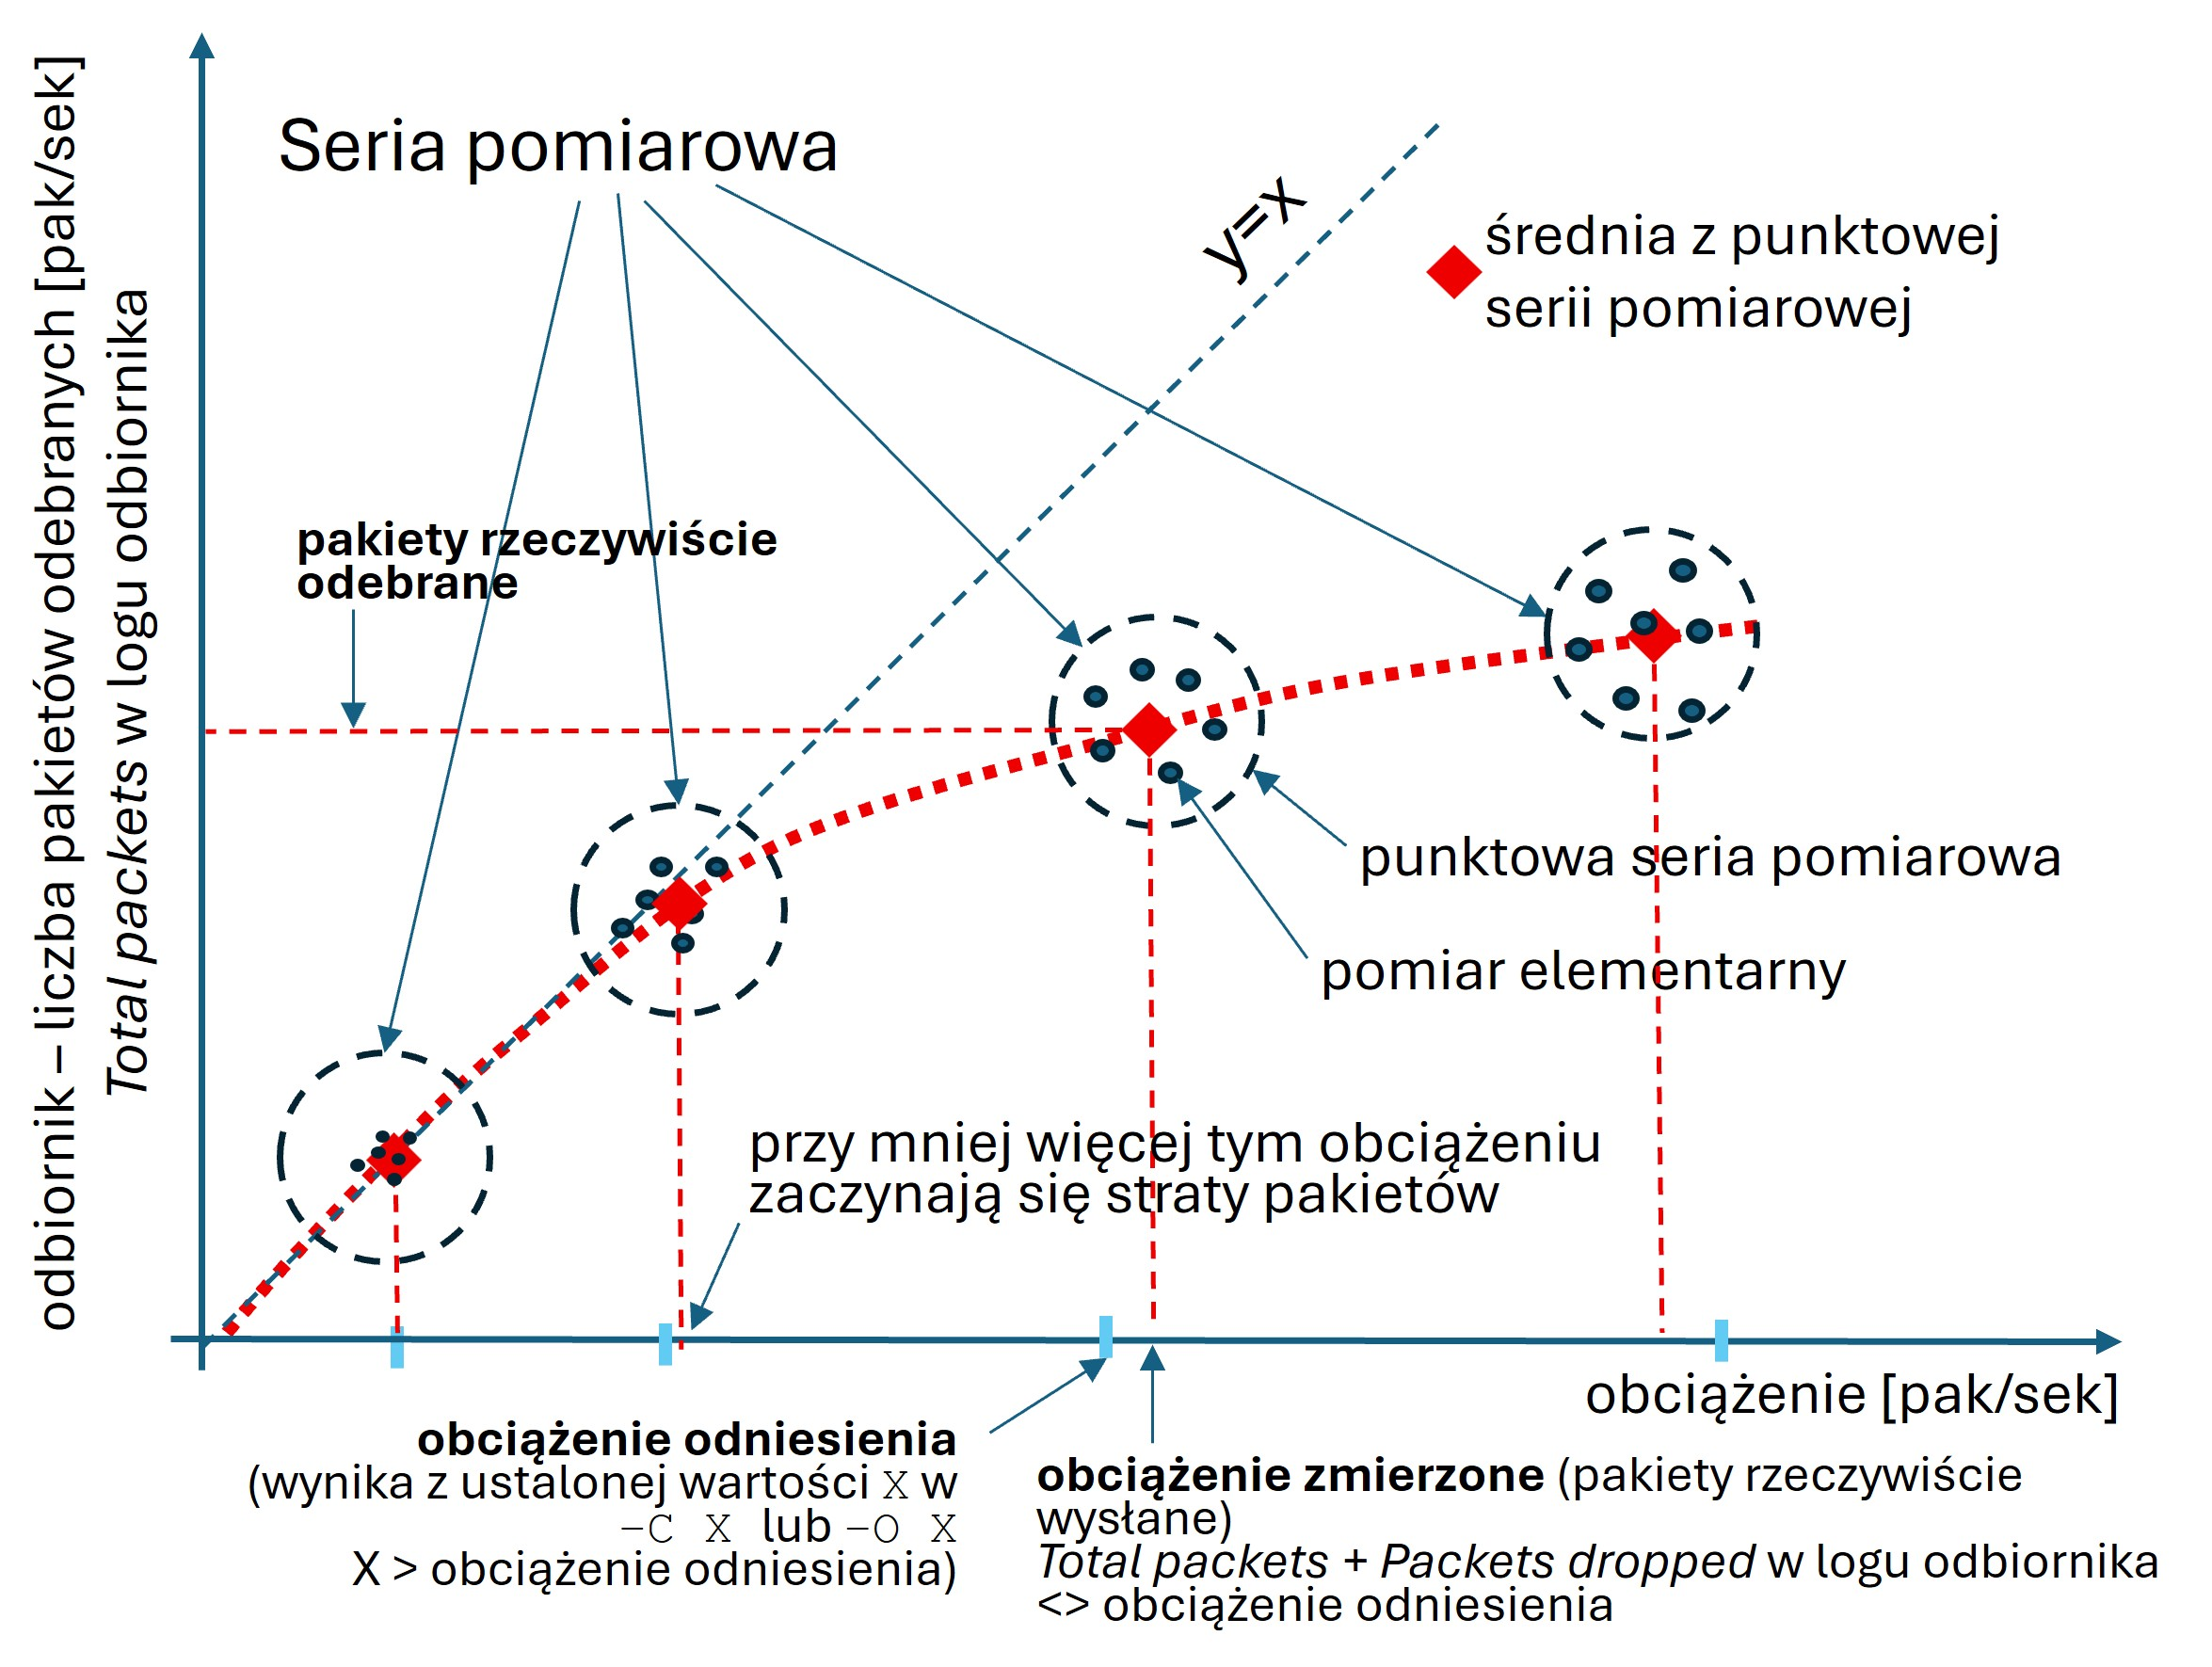
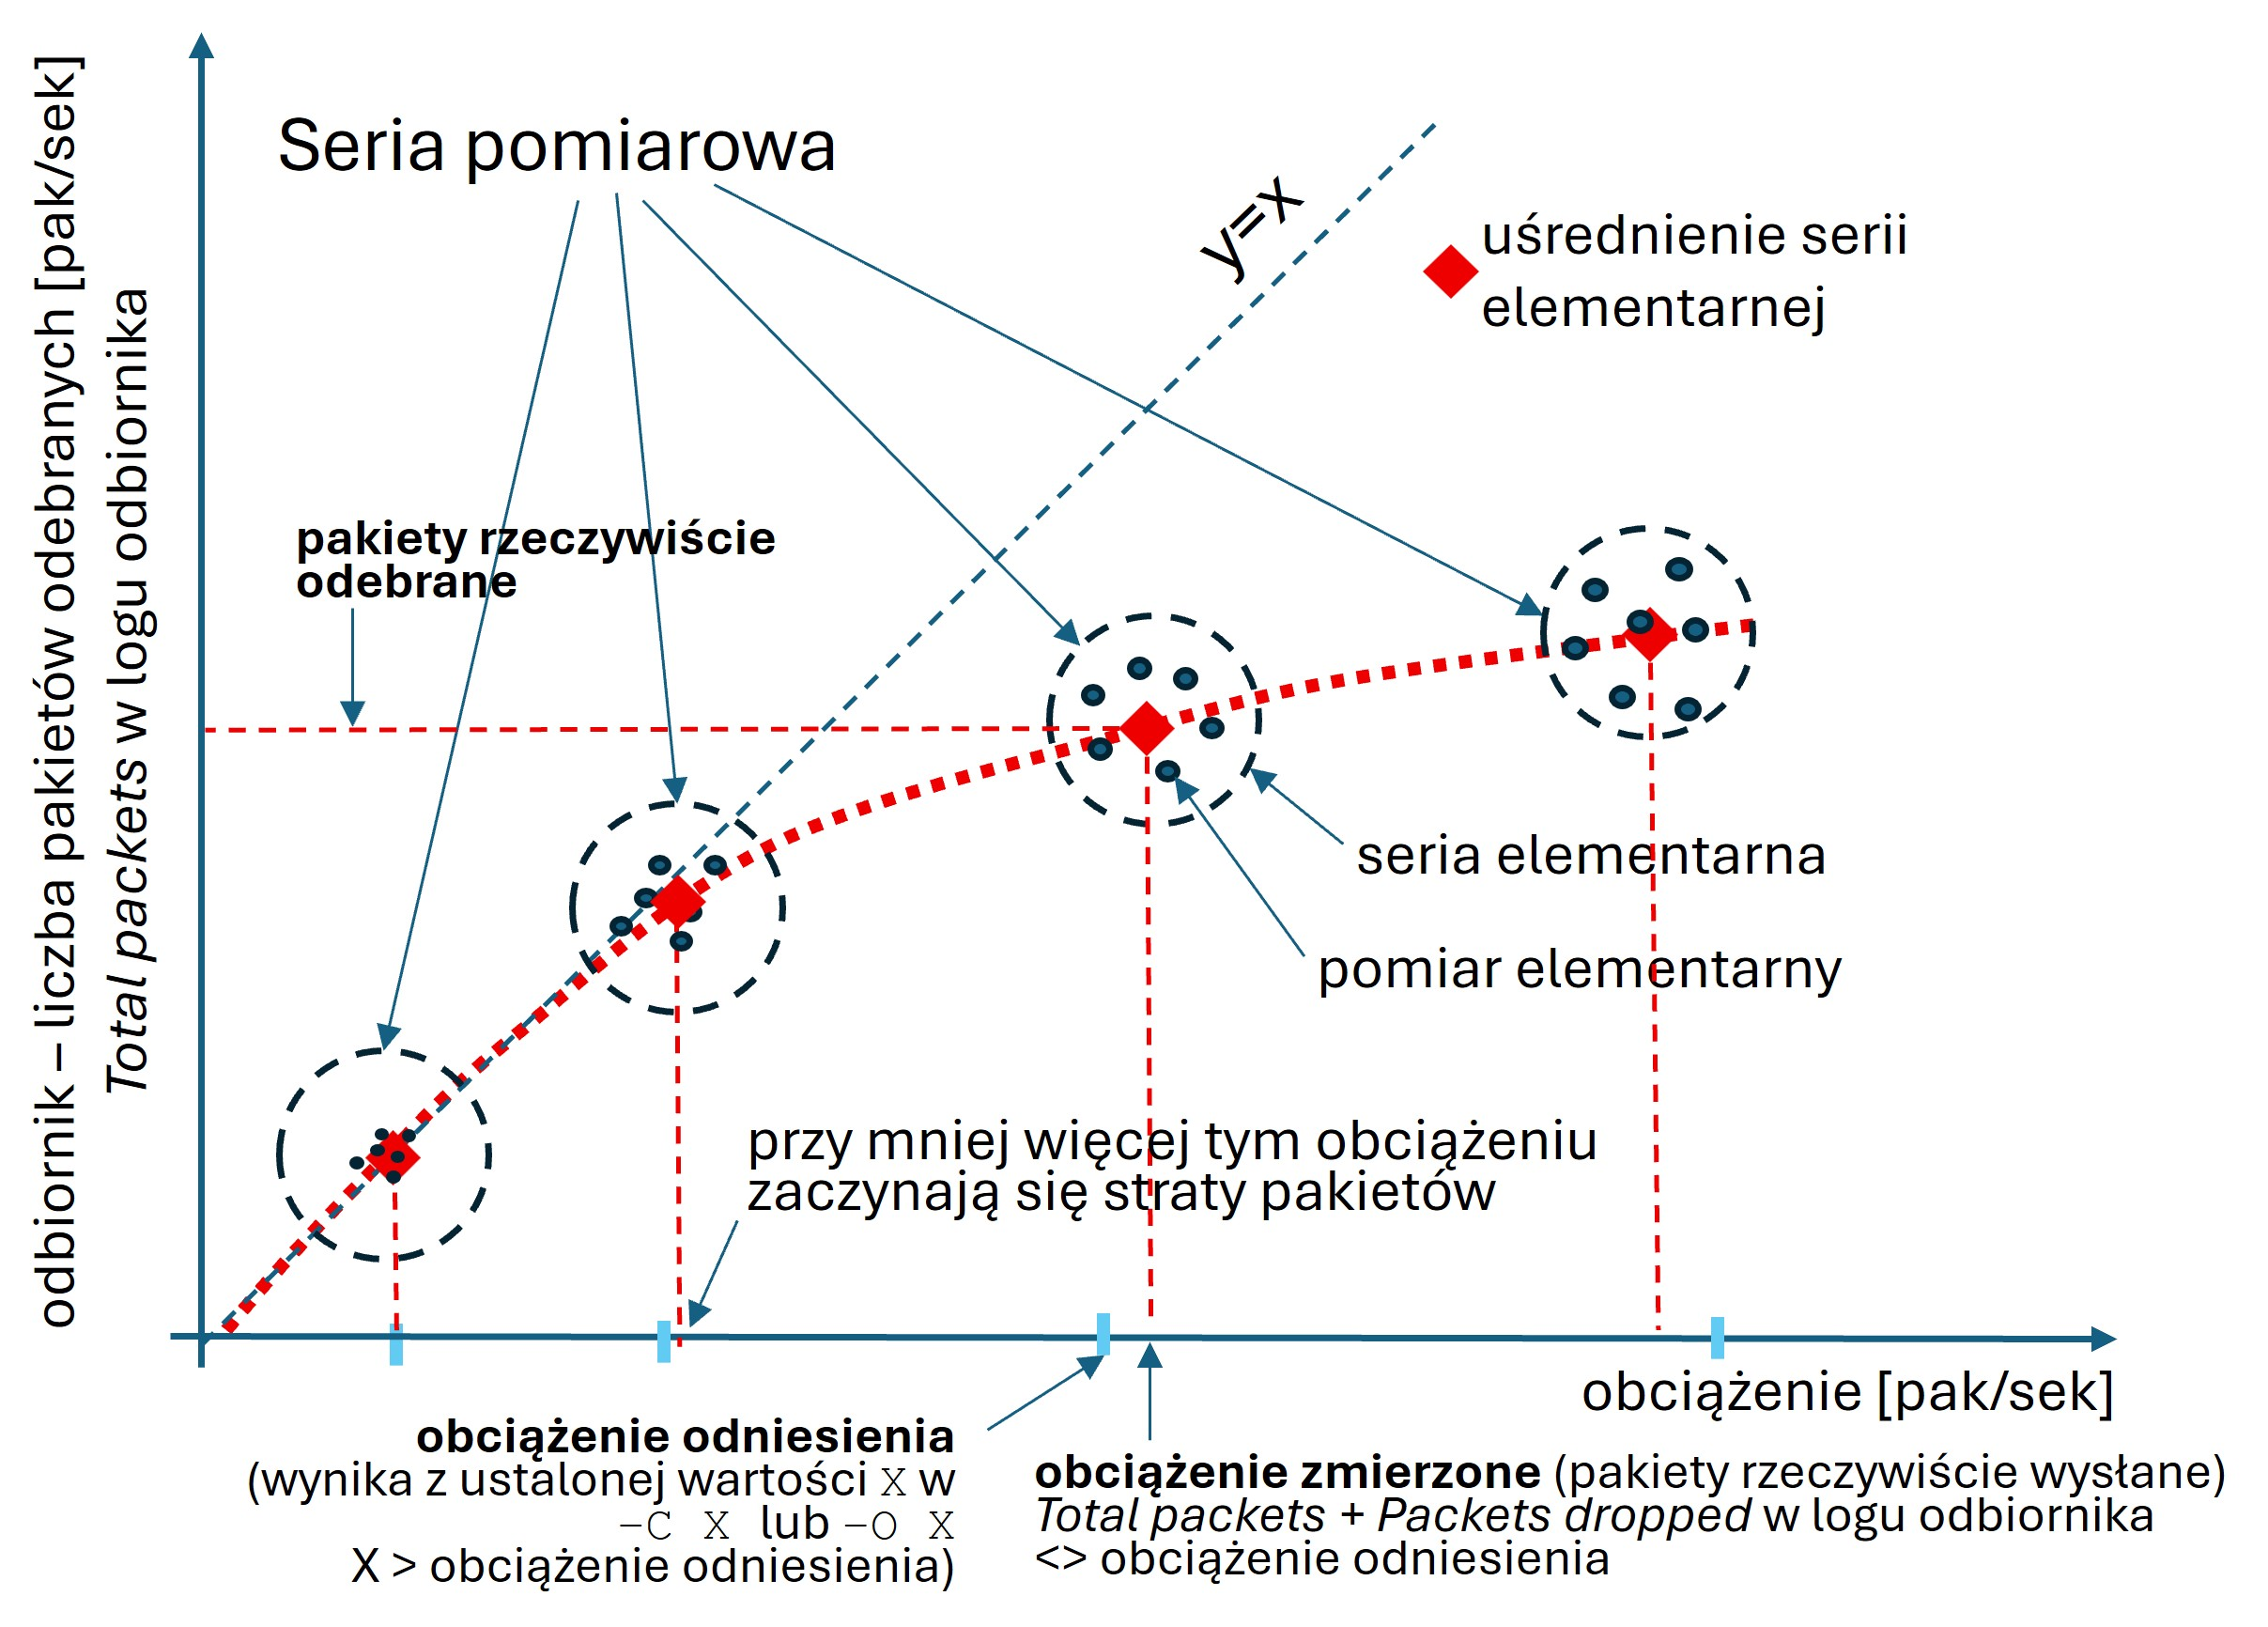
wprowadzono termin "seria elementarna"

diff --git a/README.md b/README.md
@@ -19,9 +19,9 @@ Repozytorium zawiera opis ćwiczenia laboratoryjnego, podczas którego demonstru
 4. [Opis zadań do wykonania](#opis-zadań-do-wykonania)
    1. [Ustalenie właściwego punktu pracy sieci](#ustalenie-właściwego-punktu-pracy-sieci)
    2. [Ćwiczenie właściwe](#ćwiczenie-właściwe)
-      1. [Struktura: serie pomiarowe, punktowe serie pomiarowe, pomiary elementarne](#struktura-serie-pomiarowe-punktowe-serie-pomiarowe-pomiary-elementarne)
+      1. [Struktura: serie pomiarowe, serie elementarne, pomiary elementarne](#struktura-serie-pomiarowe-serie-elementarne-pomiary-elementarne)
       2. [Parametry: ustawienia](#parametry-ustawienia)
-      3. [Seria pomiarowa i punktowa seria pomiarowa](#seria-pomiarowa-i-punktowa-seria-pomiarowa)
+      3. [Seria pomiarowa i seria elementarna](#seria-pomiarowa-i-seria elementarna)
    4. [Raport: postać wyników i wnioski](#raport-postać-wyników-i-wnioski)
 5. [DODATEK: optymalizacja wydajnościowa pomiarów](#dodatek-optymalizacja-wydajnościowa-pomiarów)
    1. [Maszyna goszcząca i maszyna wirtualna](#maszyna-goszcząca-i-maszyna-wirtualna)
@@ -152,7 +152,7 @@ W naszym przypadku (tj. w naszym skrypcie `lbr.sh`) znaczenie poszczególnych fr
 
 `/usr/bin/ITGSend -a 10.0.0.2 -T UDP -c 1200 -C 200 -t 15000` - uruchamiana aplikacja (nasz generator ITGSend) ma słać ruch na adres 10.0.0.2, stosowć protokół UDP (-T UDP), formować pakiety o stałej długości 1500 bajtów (-c 1200) z intensywnością napływu (tutaj w okresach ON, bo na końcu komendy występuje blok `-B`) równą 200 pakietów/sek (-C 200), całkowity czas trwania przebiegu ma wynosić 15000ms (czyli 15 sekund; -t 15000). Zapis `-C 200` odpowiada konkretnej charakterystyce strumienia w stanie ON (rozkład jednopunktowy) - w ogólnym przypadku może tu jednak wystąpić dowolny z rozkładów/zapisów określonych na stronie **13** manuala D-ITG (w naszym laboratorium zasadniczo posługujemy się tylko rozkładem jednopunktowym, chyba że zespół pokusi się o zadanie bonusowe z Weibull'em);
 
-`-j 1` - dodatkowo żądamy, aby nadajnik starał się wysyłać wszystkie teoretycznie przewidziane dla strumienia pakiety - aby utrzymać wynikającą z teorii przepływność pakietową. Za tą opcją może stać pewna słabość generatora, a trochę więcej na ten temat wyjaśniono w manualu na stronie **15**. Ostatecznie, związany z nią pewien implementacyjny detal generatora może być przyczyną obserwowanej w naszych pomiarach nie tylko niezgodności między oczekiwaną liczbą wygenerowanych pakietów a liczbą pakietów wygenerowanych faktycznie (np. dla rozkładu _constant_ (-C)), ale także zmiennej samej liczby pakietów faktycznie wygenerowanych w kolejnych przebiegach dla ustalonego strumienia ruchu. Rozbieżność ta rośnie wraz z założoną intensywnością napływu pakietów. W efekcie **wszelkie analizy i wnioski należy opierać na danych pochodzących z logów strony odbiornika `ITGRecv`**, a wyniki dla danego strumienia należy uśredniać z wielu (np. 10) przebiegów (iteracji). Logów nadajnika w ogóle można nie generować. **Rezygnacja z tworzenia logu nadajnika może być tym bardziej korzystna, że dodatkowo zaoszczędzi to czas procesora i nieco poprawi ogólną jakość wyników.** Bardziej zaangażowane zespoły mogą spróbowac wydłużać czas trwania przebiegów np. o rząd wielkości (czyli 150 sek. zamiast 15 sek) i zmniejszyć liczbę iteracji (np. do jednej). Może okazać się, że uzyskujemy porównywalną lub i wyższą stabilność wyników, a sporym zyskiem będzie wtedy oszczędność czasu zajmowanego przez wielokrotne uruchamianie iteracji i każdorazowe zapisywanie ich wyników.
+`-j 1` - dodatkowo żądamy, aby nadajnik starał się wysyłać wszystkie teoretycznie przewidziane dla strumienia pakiety - aby utrzymać wynikającą z teorii przepływność pakietową. Za tą opcją może stać pewna słabość generatora, a trochę więcej na ten temat wyjaśniono w manualu na stronie **15**. Ostatecznie, związany z nią pewien implementacyjny detal generatora może być przyczyną obserwowanej w naszych pomiarach nie tylko niezgodności między oczekiwaną liczbą wygenerowanych pakietów a liczbą pakietów wygenerowanych faktycznie (np. dla rozkładu _constant packet rate_ (-C)), ale także zmiennej samej liczby pakietów faktycznie wygenerowanych w kolejnych przebiegach dla ustalonego strumienia ruchu. Rozbieżność ta rośnie wraz z założoną intensywnością napływu pakietów. W efekcie **wszelkie analizy i wnioski należy opierać na danych pochodzących z logów strony odbiornika `ITGRecv`**, a wyniki dla danego strumienia należy uśredniać z wielu (np. 10) przebiegów (iteracji). Logów nadajnika w ogóle można nie generować. **Rezygnacja z tworzenia logu nadajnika może być tym bardziej korzystna, że dodatkowo zaoszczędzi to czas procesora i nieco poprawi ogólną jakość wyników.** Bardziej zaangażowane zespoły mogą spróbowac wydłużać czas trwania przebiegów np. o rząd wielkości (czyli 150 sek. zamiast 15 sek) i zmniejszyć liczbę iteracji (np. do jednej). Może okazać się, że uzyskujemy porównywalną lub i wyższą stabilność wyników, a sporym zyskiem będzie wtedy oszczędność czasu zajmowanego przez wielokrotne uruchamianie iteracji i każdorazowe zapisywanie ich wyników.
 
 `-l sender.log -x receiver.log` - podajemy nazwy plików dla logów nadajnika i odbiornika; logi te powstają w specyficznym formacie oraz ze specyficzną zawartością i nie mają postaci czytelnej dla człowieka; czytelne, syntetyczne logi uzuskane na podstawie tych oryginalnych wyświetlamy w oknie terminala komendą `/usr/bin/ITGDec <log-filename>`
 
@@ -245,11 +245,11 @@ Average loss-burst size  =      1.000000 pkt
 
 To główny etap realizacji laboratorium.
 
-### Struktura: serie pomiarowe, punktowe serie pomiarowe, pomiary elementarne
+### Struktura: serie pomiarowe, serie elementarne, pomiary elementarne
 
 Zgodnie z wcześniejszym komentarzem, etap ten obejmuje kilka _serii pomiarowych_ sieci, a każda z nich dotyczy określonego typu (innej charakterystyki) strumienia ruchu pakietowego. W podstawowej wersji laboratorium badamy trzy typy strumieni: strumień _constant packet rate_ (parametr definiujący w komendzie ITGSend `-C`), strumień Poissona (parametr definiujący w komendzie ITGSend `-P`) oraz strumień ON/OFF (parametr definiujący w komendzie ITGSend `-B` umieszczony na końcu komendy). Ostatecznym wynikiem jednej _serii pomiarowej_ jest - obrazowo to ujmując - wykres (lub wykresy) przedstawiający eksperymentalnie wyznaczony przebieg opóźnienia i straty pakietów w funkcji intensywności napływu pakietów dla określonego typu strumienia ruchu pakietowego. Wyniki końcowe dla wszystkich _serii pomiarowej_ podlegają analizie przez zespół laboratoryjny i na tej podstawie formułowane są wnioski końcowe.
 
-Każda _seria pomiarowa_ obejmuje pewną liczbę _punktowych serii pomiarowych_, gdzie każda punktowa seria pomiarowa służy do oszacowania wartości interesujących nas metryk (opóźnienia i straty pakietów) dla <u>zadanej</u> intensywności napływu pakietów. Zestaw wielu punktowych serii pomiarowych (każda dla innej intensywności napływu pakietów) pozwala wykreślić graficzną zależność naszych metryk w funkcji intensywności napływu pakietów. Jedna punktowa seria pomiarowa obejmuje natomiast szereg (np. 10) _pomiarów elementarnych_ (wszystkie przeprowadzone dla ustalonych parametrów strumienia), których uśrednione wyniki stanowią końcowy rezultat danej _punktowej serii pomiarowej_. Ważne jest (podkreślimy to jeszcze później), że (w kategoriach reprezentacji wyników na płaszczyźnie) uśrednieniu podlegają wartości uzyskane w serii punktowej zarówno dla osi rzędnych (oś Y), jak i osi odciętych (oś X).
+Każda _seria pomiarowa_ obejmuje pewną liczbę _serii elementarnych_, gdzie każda seria elementarna służy do oszacowania wartości interesujących nas metryk (opóźnienia i straty pakietów) dla <u>ustalonej</u> intensywności napływu pakietów. Zestaw wielu serii elementarnych (każda uzyskana dla innej intensywności napływu pakietów) pozwala wykreślić graficzną zależność naszych metryk w funkcji intensywności napływu pakietów. Jedna seria elementarna obejmuje natomiast szereg (np. 10) _pomiarów elementarnych_ (wszystkie przeprowadzone dla ustalonych parametrów strumienia), których uśrednione wyniki stanowią końcowy rezultat danej _serii elementarnej_. Ważne jest (podkreślimy to jeszcze później), że (w kategoriach reprezentacji wyników na płaszczyźnie) uśrednieniu w ramach obróbki serii elementarnej podlegają wartości uzyskane zarówno dla osi rzędnych (oś Y), jak i dla osi odciętych (oś X).
 
 W następnych dwóch podsekcjach przedstawiamy, kolejno, zasady parametryzacji pomiarów oraz sposób realizacji jednej _serii pomiarowej_. Realizacja takiej serii dla każdego z interesujących nas typów strumienia ruchu pakietowego wypełnia "operacyjną" część laboratorium. Jest ona podstawą do analizy i sformułowania wniosków końcowych.
 
@@ -278,17 +278,17 @@ $$
 
 Można zauważyć, że dla powyższego przypadku, przy zależności $t_{on}=1.618 \cdot t_{off}$, współczynnik wariancji obserwowanej chwilowej przepływności pakietowej przyjmuje wartość 1. Spodziewamy się, że dla źródeł ON/OFF warto skalować nasz pomiar z czasami _t<sub>on</sub>_ proporcjonalnie krótszymi względem _t<sub>off</sub>_ niż w tej zależności (czyli o wartościach współczynnika proporcjonalności względem _t<sub>off</sub>_ poniżej 1.618).
 
-### Seria pomiarowa i punktowa seria pomiarowa
+### Seria pomiarowa i seria elementarna
 
 Przyjmując ustalenia z [poprzedniej podsekcji](#parametry-ustawienia) serię pomiarów organizujemy następująco:
 
 * Ustalenie zakresu pomiarowego na osi odciętych - zakresu intensywności generowania pakietów przez aplikację `ITGSend` (prościej, jest to zakres zmian dla osi odciętych). Zasadniczo, **krok ten realizujemy tylko przed przystąpieniem do pierwszej serii pomiarów**. Jeśli seria pomiarowa jest realizowana jako kolejna, wówczas krok ten pomijamy (z zastrzeżeniem możliwości rozszerzenia zakresu w uzasadnionych przypadkach). Zakres ten powinien być na tyle szeroki, aby dla większych intensywności napływu pakietów z tego zakresu występowały zauważalne (np. 5-10%), a dla największych duże (np. 30-50%) straty pakietów. Oczywiście zakres ten można będzie później zmienić, na przykład rozszerzyć i dorobić brakujące pomiary, ale dobrze jest już na wstępie oszacować obszar działań, aby lepiej rozłożyć punkty pomiarowe na osi odciętych.
 * W tak ustalonym zakresie pomiarowym wybieramy nasze punkty pomiarowe jako _obciążenia odniesienia_. Obciążenie odniesienia to intensywność napływu pakietów mająca faktycznie zaistnieć, choć z góry zakładamy, że nastąpi to tylko z pewnym z przybliżeniem. Liczba takich punktów pomiarowych (obciążeń odniesienia) z przedziału 7-10 wydaje się wystarczająca w naszym przypadku; zważywszy na kolejkowy charakter obserwowanych zjawisk lepiej jest nieco bardziej zagęszczać punkty pomiarowe w kierunku rosnących wartości na osi odciętych. Kluczowa jest tutaj właściwa interpretacja terminu "faktycznie osiągana intensywność generowania pakietów przez źródło", dlatego jeszcze raz przypominamy: to intensywność wyliczona na podstawie liczby pakietów zarejestrowanych w logu modułu odbiorcy `ITGRecv`, wyliczana jako $` (\mbox{Total\_packets} + \mbox{Packets\_dropped}) / 1000 `$; zwykle będzie ona mniejsza od intensywność teoretycznej `X` deklarowanej w parametrach `-C X` czy `-O X` komendy uruchamiającej generator `ITGSend`.
 * Dla każdego z wyznaczonych obciążeń odniesienia przeprowadzamy pewną liczbę wstępnych [pomiarów elementarnych](#pomiar-elementarny-przebieg) zmieniając **teoretyczną** intensywność napływu pakietów `X` (w parametrach `-C X` czy `-O X`) tak, aby ostatecznie wartość średnia wyrażenia $` (\mbox{Total\_packets} + \mbox{Packets\_dropped}) / 1000 `$ z kilku takich pomiarów, przeprowadzonych dla ustalonej wartości `X`, z zadowalającym nas przybliżeniem odpowiadała zakładanemu obciążeniu odniesienia. Tę zmierzoną wartość średnią nazywamy _obciążeniem zmierzonym_. W uproszczeniu, metodą prób i błędów znajdujemy zatem taką wartość `X`, dla której obciążenia zmierzone, czyli faktycznie osiągana intensywność napływu pakietów (dokładniej: jej wartość uśredniona z kilku przebiegów), z grubsza odpowiada bieżącemu obciążeniu odniesienia. Natomiast sama wartość obciążenia zmierzonego zwykle będzie mniejsza od wartości teoretycznej `X` (wspominaliśmy o tym już wcześniej). Opisany tu zabieg ma więc charakter kalibracji pozwalającej odnosić uzyskiwane wartości metryk wydajnościowych do rzeczywistego (zmierzonego) obciążenia systemu.
-* Teraz, dla każdego obciążenia odniesienia, przeprowadzamy właściwą _punktową serię pomiarową_:
+* Teraz, dla każdego obciążenia odniesienia, przeprowadzamy właściwą _serię elementarną_:
   * dla wartości `X`, wyznaczonej w poprzednim kroku dla tego obciążenia odniesienia, realizujemy szereg (np. 10) [pomiarów elementarnych](#pomiar-elementarny-przebieg), po każdym z nich zapisując jego wyniki jako wartości następujących metryk: **(1)** liczba pakietów faktycznie wygenerowanych równa $` (\mbox{Total\_packets} + \mbox{Packets\_dropped}) / 1000 `$, **(1)** strata pakietów jako wartość pola _Packets dropped_ w logu, **(1)** średnie opóźnienie pakietu jako wartość pola _Average delay_ w logu
-  * po wykonaniu wszystkich pomiarów elementarnych w ramach punktowej serii pomiarowej uśredniamy wartość każdej z wymienionych metryk.
-* Po zrealizowaniu wszystkich _punktowych serii pomiarowych_ dla danego typu strumienia pakietów sporządzamy odpowiednie wykresy (dla strat pakietów i dla opóźnienia). Tym kończymy bieżącą _serię pomiarową_. Ważne jest, aby każda ze średniówek opóźnienia i strat pakietów znalazła się w punkcie o współrzędnej na osi odciętych równej wartości _obciążenia zmierzonego_, a więc wartości średniej wyrażenia $` (\mbox{Total\_packets} + \mbox{Packets\_dropped}) / 1000 `$ z danej punktowej serii pomiarowej (obciążenie odniesienia zwykle będzie leżeć w trochę innym miejscu i to nas nie martwi). Dobrze to widać na przedstawionym wcześniej [rysunku](#struktura-sesji-pomiarowej).
+  * po wykonaniu wszystkich pomiarów elementarnych w ramach serii elementarnej uśredniamy wartość każdej z wymienionych metryk.
+* Po zrealizowaniu wszystkich _serii elementarnych_ dla danego typu strumienia pakietów sporządzamy odpowiednie wykresy (dla strat pakietów i dla opóźnienia). Tym kończymy bieżącą _serię pomiarową_. Ważne jest, aby każda ze średniówek opóźnienia i strat pakietów znalazła się w punkcie o współrzędnej na osi odciętych równej wartości _obciążenia zmierzonego_, a więc wartości średniej wyrażenia $` (\mbox{Total\_packets} + \mbox{Packets\_dropped}) / 1000 `$ z danej serii elementarnej (obciążenie odniesienia zwykle będzie leżeć w trochę innym miejscu i to nas nie martwi). Dobrze to widać na przedstawionym wcześniej [rysunku](#struktura-sesji-pomiarowej).
 * Następnie albo przechodzimy do realizacji _serii pomiarowej_ dla kolejnego niezbadanego jeszcze typu strumienia, albo kończymy pomiary i przechodzimy do analizy wyników oraz sporządzania wniosków.
 
 ## Raport: postać wyników i wnioski
@@ -303,7 +303,7 @@ W przypadku realizacji **zadania bonusowego** należy wyraźnie zaznaczyć fakt 
 
 # DODATEK: optymalizacja wydajnościowa pomiarów
 
-Generowanie ruchu pakietowego o zadanych własnościach statystycznych nie jest zadaniem trywialnym w aspekcie wydajnościowym. Wynika to z konieczności tworzenia i wysyłania kolejnych pakietów w odstępach czasowych, które w czasie rzeczywistym należy wyliczać i implementowane na bazie timer'ów zgodnie z założonym dla danego strumienia procesem stochastycznym. Chcemy przy tym mieć możliwość uzyskiwania dużych intensywność generowania pakietów (np. emulując ruch mający dobrze dociążyć łącze 1GBit/s należy generować ok. 100 tys. pakietów na sekundę). Dla typowego sprzętu "domowego", zwłaszcza korzystając z wirtualizowanych środowisk, może to być wyzwanie ponad miarę. Stykamy się z tym na przykład w przypadku aplikacji D-ITG. Z tego powodu w naszym środowisku próbujemy zoptymalizować systemowe ustawienia tej aplikacji - zwłaszcza strony nadawczej `ITGSend` - pod kątem wydajnościowym. Sukces jest jednak tylko częściowy. Dotyczy to w szczególności obserwowanej rozbieżności pomiędzy zakładaną (teoretyczną) a faktycznie osiąganą liczbą wygenerowanych przez nadajnik pakietów. Dlatego wyniki pomiarów dodatkowo "kalibrujemy" z uwzględnieniem wartości obciążeń zmierzonych, a nie teoretycznie wynikających z zastosowanych ustawień generatora ruchu; o kalibracji więcej napisano w sekcji [Seria pomiarowa i punktowa seria pomiarowa](#seria-pomiarowa-i-punktowa-seria-pomiarowa).
+Generowanie ruchu pakietowego o zadanych własnościach statystycznych nie jest zadaniem trywialnym w aspekcie wydajnościowym. Wynika to z konieczności tworzenia i wysyłania kolejnych pakietów w odstępach czasowych, które w czasie rzeczywistym należy wyliczać i implementowane na bazie timer'ów zgodnie z założonym dla danego strumienia procesem stochastycznym. Chcemy przy tym mieć możliwość uzyskiwania dużych intensywność generowania pakietów (np. emulując ruch mający dobrze dociążyć łącze 1GBit/s należy generować ok. 100 tys. pakietów na sekundę). Dla typowego sprzętu "domowego", zwłaszcza korzystając z wirtualizowanych środowisk, może to być wyzwanie ponad miarę. Stykamy się z tym na przykład w przypadku aplikacji D-ITG. Z tego powodu w naszym środowisku próbujemy zoptymalizować systemowe ustawienia tej aplikacji - zwłaszcza strony nadawczej `ITGSend` - pod kątem wydajnościowym. Sukces jest jednak tylko częściowy. Dotyczy to w szczególności obserwowanej rozbieżności pomiędzy zakładaną (teoretyczną) a faktycznie osiąganą liczbą wygenerowanych przez nadajnik pakietów. Dlatego wyniki pomiarów dodatkowo "kalibrujemy" z uwzględnieniem wartości obciążeń zmierzonych, a nie teoretycznie wynikających z zastosowanych ustawień generatora ruchu; o kalibracji więcej napisano w sekcji [Seria pomiarowa i seria elementarna](#seria-pomiarowa-i-seria-elementarna).
 
   ## Maszyna goszcząca i maszyna wirtualna
 